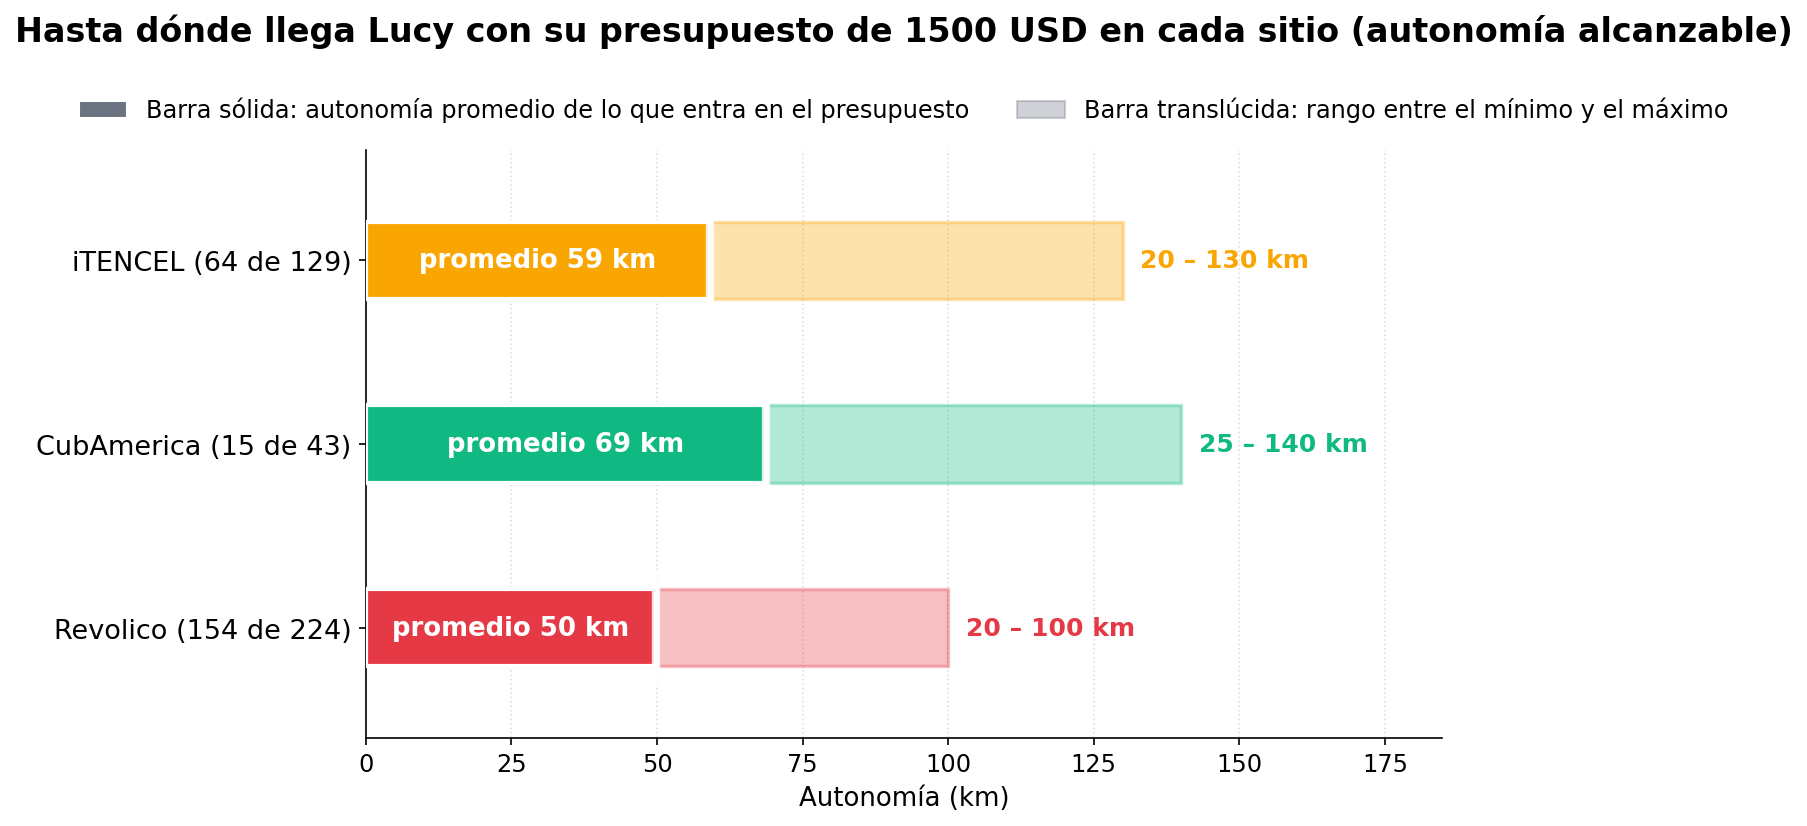
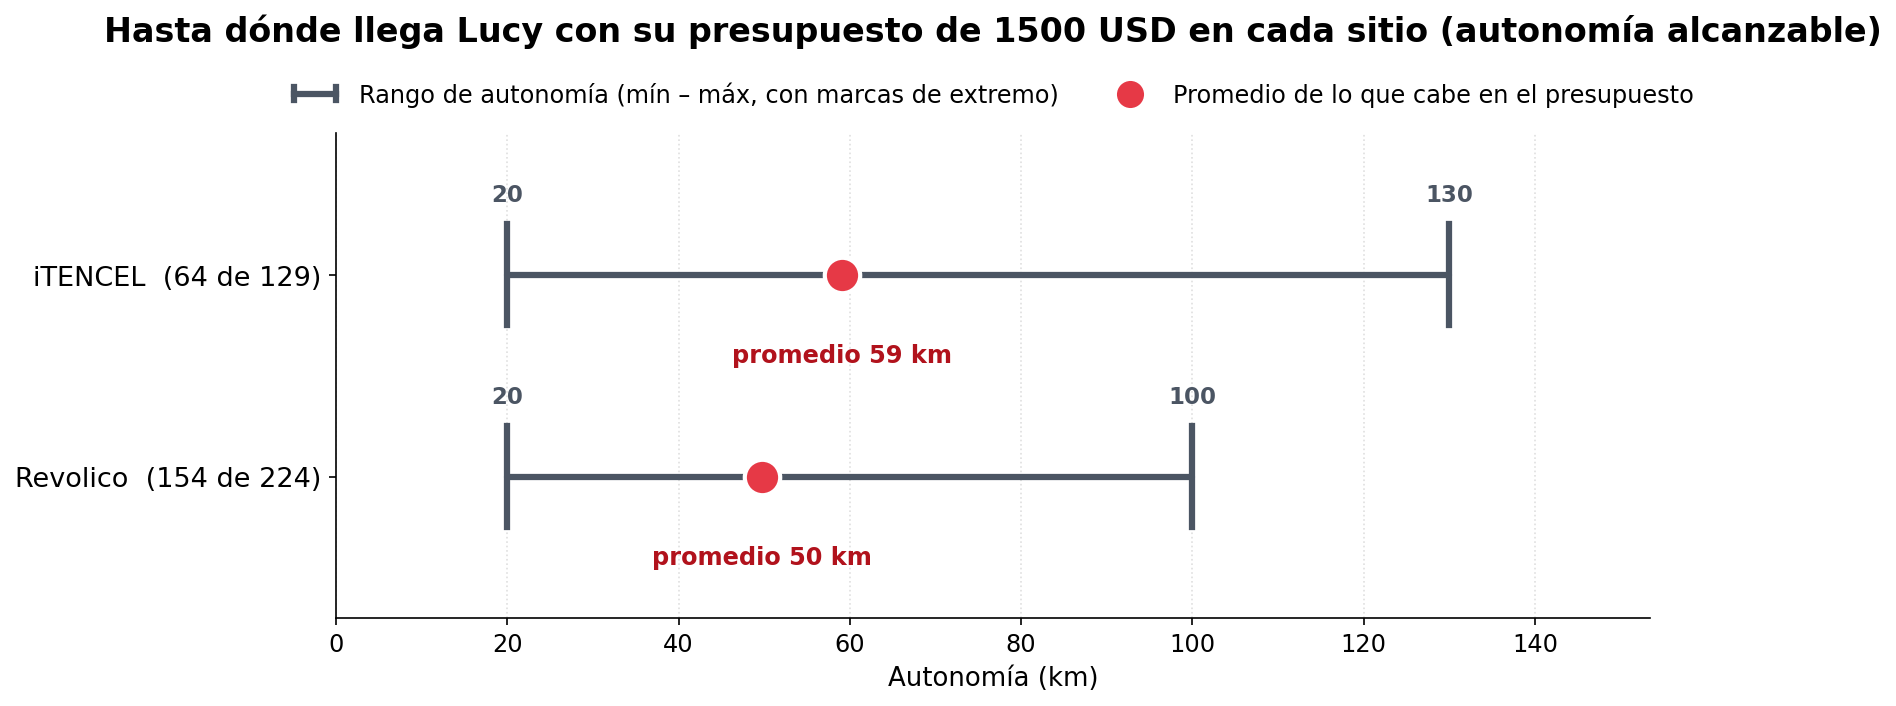
Graficos 2 y 3 afinados: disponibilidad en barras horizontales con nueva paleta, y alcance como lineas grises con marcas de extremo y leyenda con simbolo de segmento

diff --git a/analisis.py b/analisis.py
@@ -6,9 +6,10 @@ organizado por secciones:
 
     CONFIGURACION GENERAL     constantes, colores, etiquetas, sitios
     UTILIDADES               formato de numeros y tablas de markdown
-    PRIMERA FUENTE: INTERNET  los tres sitios (Revolico, CubAmerica, iTENCEL):
-                             tabla de resumen y tres graficos. VEDCA quedó fuera
-                             de internet para usarse luego como mercado aparte.
+    PRIMERA FUENTE: INTERNET  los dos sitios (Revolico e iTENCEL):
+                             tabla de resumen y tres graficos. VEDCA y
+                             CubAmerica quedaron fuera de internet para
+                             usarse luego como mercado aparte.
     OTRAS FUENTES            Telegram, encuestas, mercados (mas adelante)
 
 El notebook `proyecto.ipynb` NO tiene codigo: solo importa desde aqui y muestra
@@ -64,15 +65,6 @@ SITIOS = (
         "moneda": "CUP a USD (745 = 1)",
     },
     {
-        "slug": "cubamerica",
-        "nombre": "CubAmerica",
-        "archivo": "cubamerica_envios.json",
-        "lista": "productos",
-        "precio": "precio_usd",
-        "autonomia": "autonomia_max_km",
-        "moneda": "USD",
-    },
-    {
         "slug": "itencel",
         "nombre": "iTENCEL",
         "archivo": "itencel_anuncios.json",
@@ -82,6 +74,10 @@ SITIOS = (
         "moneda": "mayoría en USD",
     },
 )
+
+# Sitios que se guardaron pero quedaron fuera de la primera fuente (mercados):
+#   - VEDCA (Islagrande): 10 productos en data/vedca_islagrande.json
+#   - CubAmerica:         43 productos en data/cubamerica_envios.json
 
 DICC_SITIOS = {s["slug"]: s for s in SITIOS}
 
@@ -122,7 +118,7 @@ def tabla_markdown(encabezados: list[str], filas: list[list[str]]) -> str:
 
 
 # ==============================================================================
-# PRIMERA FUENTE: INTERNET  (los tres sitios)
+# PRIMERA FUENTE: INTERNET  (los dos sitios)
 # ==============================================================================
 
 def cargar_sitio(sitio: dict) -> list[dict]:
@@ -266,10 +262,41 @@ def _guardar(fig, ruta: Path | None):
     return fig
 
 
-def _leyenda_arriba(ax, casos):
+def _leyenda_arriba(ax, casos, handler_map=None):
     """Leyenda horizontal colocada encima del area del grafico."""
     ax.legend(handles=casos, frameon=False, fontsize=11.5,
-              loc="lower center", bbox_to_anchor=(0.5, 1.01), ncol=4)
+              loc="lower center", bbox_to_anchor=(0.5, 1.01), ncol=4,
+              handler_map=handler_map)
+
+
+class _SegmentoLegendario:
+    """Marcador de leyenda que dibuja un segmento: linea horizontal con dos
+    barras verticales cortas en los extremos (rango minima-maximo)."""
+
+    def legend_artist(self, legend, orig_handle, fontsize, handlebox):
+        import matplotlib.lines as mlines
+
+        x0, y0 = handlebox.xdescent, handlebox.ydescent
+        ancho, alto = handlebox.width, handlebox.height
+        color = orig_handle.get_color()
+        grosor = orig_handle.get_linewidth()
+
+        centro_y = y0 + alto / 2
+        margen = ancho * 0.06
+        linea = mlines.Line2D([x0 + margen, x0 + ancho - margen],
+                              [centro_y, centro_y],
+                              color=color, linewidth=grosor, zorder=3)
+        barra = mlines.Line2D([x0 + margen, x0 + margen],
+                              [centro_y - alto * 0.4, centro_y + alto * 0.4],
+                              color=color, linewidth=grosor, zorder=3)
+        barra2 = mlines.Line2D([x0 + ancho - margen, x0 + ancho - margen],
+                               [centro_y - alto * 0.4, centro_y + alto * 0.4],
+                               color=color, linewidth=grosor, zorder=3)
+        handlebox.add_artist(linea)
+        handlebox.add_artist(barra)
+        handlebox.add_artist(barra2)
+        handlebox.set_clip_on(False)
+        return [linea, barra, barra2]
 
 
 def figura_precios_promedio(ruta: Path | None = None):
@@ -278,7 +305,7 @@ def figura_precios_promedio(ruta: Path | None = None):
 
     tipos = orden_con_productos()
     x = list(range(len(tipos)))
-    ancho = 0.2
+    ancho = 0.35
     maximo = 0
 
     fig, ax = plt.subplots(figsize=(11.5, 6.4))
@@ -287,7 +314,8 @@ def figura_precios_promedio(ruta: Path | None = None):
         valores = [rp[c].get("promedio") if rp[c].get("anuncios") else None
                    for c in tipos]
         maximo = max([maximo] + [v for v in valores if v is not None] or [0])
-        centros = [xi + (i - 1.5) * ancho for xi in x]
+        corrimiento = (i - (len(SITIOS) - 1) / 2) * ancho
+        centros = [xi + corrimiento for xi in x]
         presentes = [(xx, v) for xx, v in zip(centros, valores) if v is not None]
         if not presentes:
             continue
@@ -303,7 +331,7 @@ def figura_precios_promedio(ruta: Path | None = None):
     ax.set_ylabel("Precio promedio (USD)", fontsize=12.5)
     ax.set_ylim(0, maximo * 1.18)
     ax.tick_params(axis="y", labelsize=11)
-    ax.set_title("Precio promedio por tipo de vehículo en los tres sitios",
+    ax.set_title("Precio promedio por tipo de vehículo en los dos sitios",
                  fontsize=16, fontweight="bold", pad=40)
 
     _leyenda_arriba(ax, [
@@ -318,40 +346,55 @@ def figura_precios_promedio(ruta: Path | None = None):
 
 
 def figura_disponibilidad(ruta: Path | None = None):
-    """G2. Barras horizontales: lo que cabe en el presupuesto frente al total."""
+    """G2. Barras horizontales agrupadas por tipo: cuantos productos de cada
+    sitio y categoria entran en el presupuesto frente al total publicado."""
     from matplotlib.patches import Patch
 
-    filas = resumen_alcance_general()
-    nombres = [f["nombre"] for f in filas]
-    totales = [f["total"] for f in filas]
-    alcanzables = [f["alcanzables"] for f in filas]
-    posiciones = list(range(len(nombres)))
+    PALETA_2 = {
+        "revolico": "#4C6EF5",
+        "itencel": "#F4955A",
+    }
 
-    fig, ax = plt.subplots(figsize=(11, 5.4))
-    ax.barh(posiciones, totales, 0.55,
-            color="white", edgecolor="#9CA3AF", linewidth=2, hatch="///", zorder=2)
-    ax.barh(posiciones, alcanzables, 0.55,
-            color=[COLOR_SITIOS[f["slug"]] for f in filas],
-            edgecolor="white", linewidth=2, zorder=3)
+    tipos = orden_con_productos()
+    y = list(range(len(tipos)))
+    alto = 0.35
+    maximo = 0
 
-    for p, n_dentro, n_total in zip(posiciones, alcanzables, totales):
-        ax.text(n_dentro + (max(totales) * 0.02), p,
-                f"{n_dentro} de {n_total}", va="center", fontsize=13,
-                fontweight="bold")
+    filas = {s["slug"]: resumen_presupuesto(s) for s in SITIOS}
+    for c in tipos:
+        for s in SITIOS:
+            maximo = max(maximo, filas[s["slug"]][c]["anuncios"])
 
-    ax.set_yticks(posiciones)
-    ax.set_yticklabels(nombres, fontsize=13)
+    fig, ax = plt.subplots(figsize=(11.5, 5.6))
+    for i, sitio in enumerate(SITIOS):
+        rp = filas[sitio["slug"]]
+        totales = [rp[c]["anuncios"] for c in tipos]
+        alcanzables = [rp[c]["alcanzables"] for c in tipos]
+        corrimiento = (i - (len(SITIOS) - 1) / 2) * alto
+        centros = [yi + corrimiento for yi in y]
+        ax.barh(centros, totales, alto,
+                color="white", edgecolor="#B9C0C9", linewidth=2, hatch="///", zorder=2)
+        ax.barh(centros, alcanzables, alto,
+                color=PALETA_2[sitio["slug"]],
+                edgecolor="white", linewidth=2, zorder=3)
+        for cc, t, a in zip(centros, totales, alcanzables):
+            ax.text(t + maximo * 0.02, cc, f"{a} de {t}",
+                    va="center", fontsize=10.5, fontweight="bold")
+
+    ax.set_yticks(y)
+    ax.set_yticklabels([ETIQUETAS[c] for c in tipos], fontsize=12.5)
     ax.set_xlabel("Número de productos", fontsize=12.5)
-    ax.set_xlim(0, max(totales) * 1.28)
-    ax.tick_params(axis="x", labelsize=11.5)
-    ax.set_title(f"Productos que caben en el presupuesto de {PRESUPUESTO_LUCY} USD "
-                 "en cada sitio", fontsize=16, fontweight="bold", pad=44)
+    ax.set_xlim(0, maximo * 1.25)
+    ax.tick_params(axis="x", labelsize=11)
+    ax.set_title(f"Productos que caben en el presupuesto de {PRESUPUESTO_LUCY} USD, "
+                 "por tipo de vehículo y sitio", fontsize=16, fontweight="bold", pad=44)
 
     _leyenda_arriba(ax, [
-        Patch(facecolor="#6B7280", edgecolor="white",
-              label="Barra sólida: productos dentro del presupuesto"),
-        Patch(facecolor="white", edgecolor="#9CA3AF", hatch="///",
-              label="Barra rayada: productos publicados en total"),
+        Patch(facecolor=PALETA_2[s["slug"]], edgecolor="white",
+              label=f"{s['nombre']} (cabe en el presupuesto)") for s in SITIOS
+    ] + [
+        Patch(facecolor="white", edgecolor="#B9C0C9", hatch="///",
+              label="Total publicado"),
     ])
 
     ax.spines[["top", "right"]].set_visible(False)
@@ -361,8 +404,9 @@ def figura_disponibilidad(ruta: Path | None = None):
 
 
 def figura_alcance_general(ruta: Path | None = None):
-    """G3. Barras por sitio: autonomia alcanzable y su promedio con el presupuesto."""
-    from matplotlib.patches import Patch
+    """G3. Dot plot / range plot: por sitio, rango de autonomia alcanzable
+    (linea del minimo al maximo) con el promedio marcado como punto rojo."""
+    from matplotlib.lines import Line2D
 
     filas = resumen_alcance_general()
     nombres = [f["nombre"] for f in filas]
@@ -372,45 +416,48 @@ def figura_alcance_general(ruta: Path | None = None):
     alcanzables = [f["alcanzables"] for f in filas]
     totales = [f["total"] for f in filas]
     posiciones = list(range(len(nombres)))
+    tope = max(maximos) if max(maximos) else 1
 
-    fig, ax = plt.subplots(figsize=(11, 5.6))
-    for p, slug, vmin, vmed, vmax, n_dentro, n_total in zip(
-            posiciones, [f["slug"] for f in filas], minimos, promedios, maximos,
-            alcanzables, totales):
-        color = COLOR_SITIOS[slug]
-        if n_dentro == 0:
-            ax.text(3, p, "sin productos dentro del presupuesto", va="center",
-                    fontsize=12.5, color="#6B7280")
-            continue
-        ax.barh(p, vmax - vmin, 0.42, left=vmin,
-                color=color, alpha=0.32, edgecolor=color, linewidth=1.6, zorder=2)
-        ax.barh(p, vmed, 0.42, color=color, edgecolor="white", linewidth=2, zorder=3)
-        ax.plot([vmed, vmed], [p - 0.29, p + 0.29], color="white", linewidth=4,
-                zorder=4, alpha=0.85)
-        ax.text(vmax + 3, p, f"{vmin:.0f} – {vmax:.0f} km", va="center",
-                fontsize=12, fontweight="bold", color=color)
-        ax.text(vmed / 2, p, f"promedio {vmed:.0f} km", va="center", ha="center",
-                fontsize=12.5, fontweight="bold", color="white", zorder=5)
+    fig, ax = plt.subplots(figsize=(11.5, 4.8))
+    for p, vmin, vmed, vmax in zip(
+            posiciones, minimos, promedios, maximos):
+        ax.plot([vmin, vmax], [p, p], color="#4B5563", linewidth=3,
+                solid_capstyle="round", zorder=2)
+        ax.plot([vmin, vmin], [p - 0.25, p + 0.25], color="#4B5563",
+                linewidth=3, zorder=3)
+        ax.plot([vmax, vmax], [p - 0.25, p + 0.25], color="#4B5563",
+                linewidth=3, zorder=3)
+        ax.plot([vmed], [p], linestyle="none", marker="o", color="#E63946",
+                markersize=17, markeredgecolor="white", markeredgewidth=2, zorder=4)
+        ax.text(vmin, p + 0.34, f"{vmin:.0f}", ha="center", va="bottom",
+                fontsize=11, color="#4B5563", fontweight="bold")
+        ax.text(vmax, p + 0.34, f"{vmax:.0f}", ha="center", va="bottom",
+                fontsize=11, color="#4B5563", fontweight="bold")
+        ax.text(vmed, p - 0.34, f"promedio {vmed:.0f} km", ha="center", va="top",
+                fontsize=11.5, fontweight="bold", color="#B1121C")
 
     ax.set_yticks(posiciones)
     ax.set_yticklabels(
-        [f"{nombre} ({n_dentro} de {n_total})"
+        [f"{nombre}  ({n_dentro} de {n_total})"
          for nombre, n_dentro, n_total in zip(nombres, alcanzables, totales)],
         fontsize=13)
     ax.set_xlabel("Autonomía (km)", fontsize=12.5)
-    ax.set_xlim(0, max(maximos) * 1.32 if max(maximos) else 1)
-    ax.set_ylim(-0.6, len(nombres) - 0.4)
+    ax.set_xlim(0, tope * 1.18)
+    ax.set_ylim(-0.7, len(nombres) - 0.3)
     ax.tick_params(axis="x", labelsize=11.5)
     ax.set_title("Hasta dónde llega Lucy con su presupuesto de "
                  f"{PRESUPUESTO_LUCY} USD en cada sitio (autonomía alcanzable)",
-                 fontsize=16, fontweight="bold", pad=52)
+                 fontsize=16, fontweight="bold", pad=44)
 
-    _leyenda_arriba(ax, [
-        Patch(facecolor="#6B7280", edgecolor="white",
-              label="Barra sólida: autonomía promedio de lo que entra en el presupuesto"),
-        Patch(facecolor="#6B7280", edgecolor="#6B7280", alpha=0.32,
-              label="Barra translúcida: rango entre el mínimo y el máximo"),
-    ])
+    seg_rango = Line2D([0, 1], [0, 0], color="#4B5563", linewidth=3,
+                       label="Rango de autonomía (mín – máx, con marcas de extremo)")
+    _leyenda_arriba(
+        ax,
+        [seg_rango,
+         Line2D([0], [0], color="none", marker="o", markerfacecolor="#E63946",
+                markeredgecolor="white", markersize=14,
+                label="Promedio de lo que cabe en el presupuesto")],
+        handler_map={seg_rango: _SegmentoLegendario()})
 
     ax.spines[["top", "right"]].set_visible(False)
     ax.grid(axis="x", linestyle=":", alpha=0.4, zorder=0)
@@ -452,5 +499,5 @@ if __name__ == "__main__":
     destino = ejecutar()
     print("Gráficos guardados en:", destino)
     print()
-    print("TABLA DE RESUMEN DE LOS TRES SITIOS")
+    print("TABLA DE RESUMEN DE LOS DOS SITIOS")
     print(tabla_resumen_markdown())
